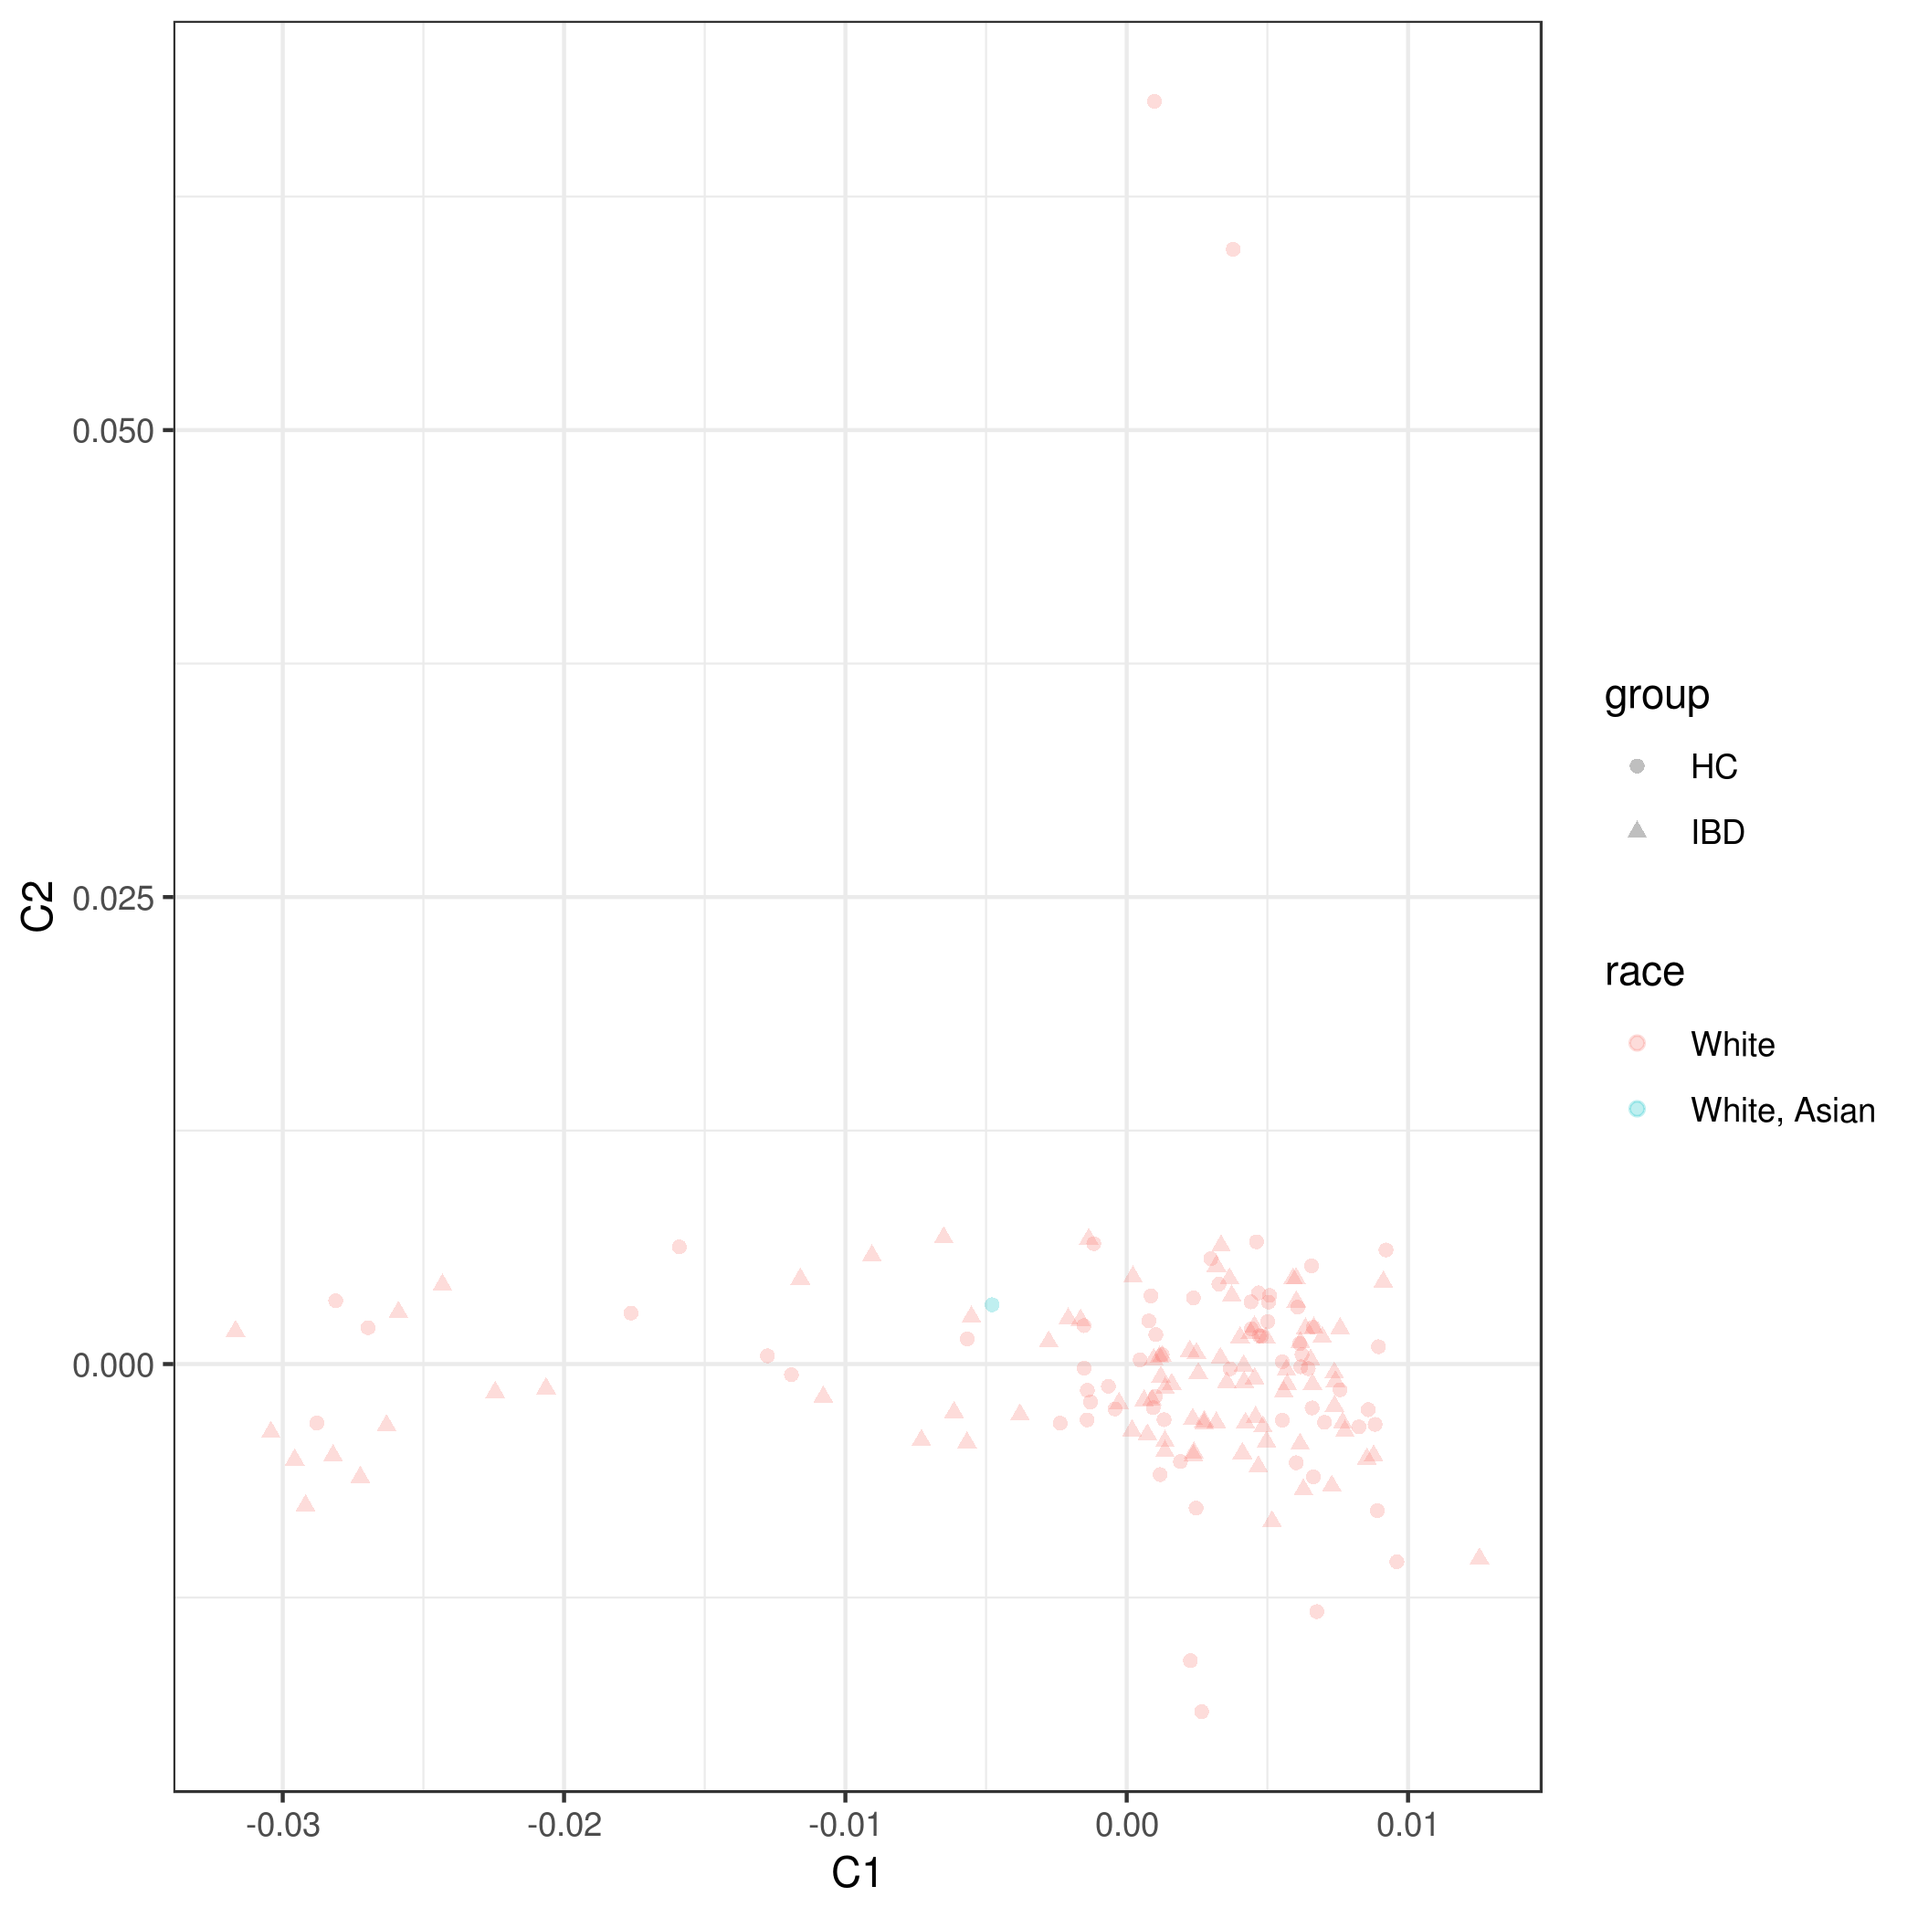
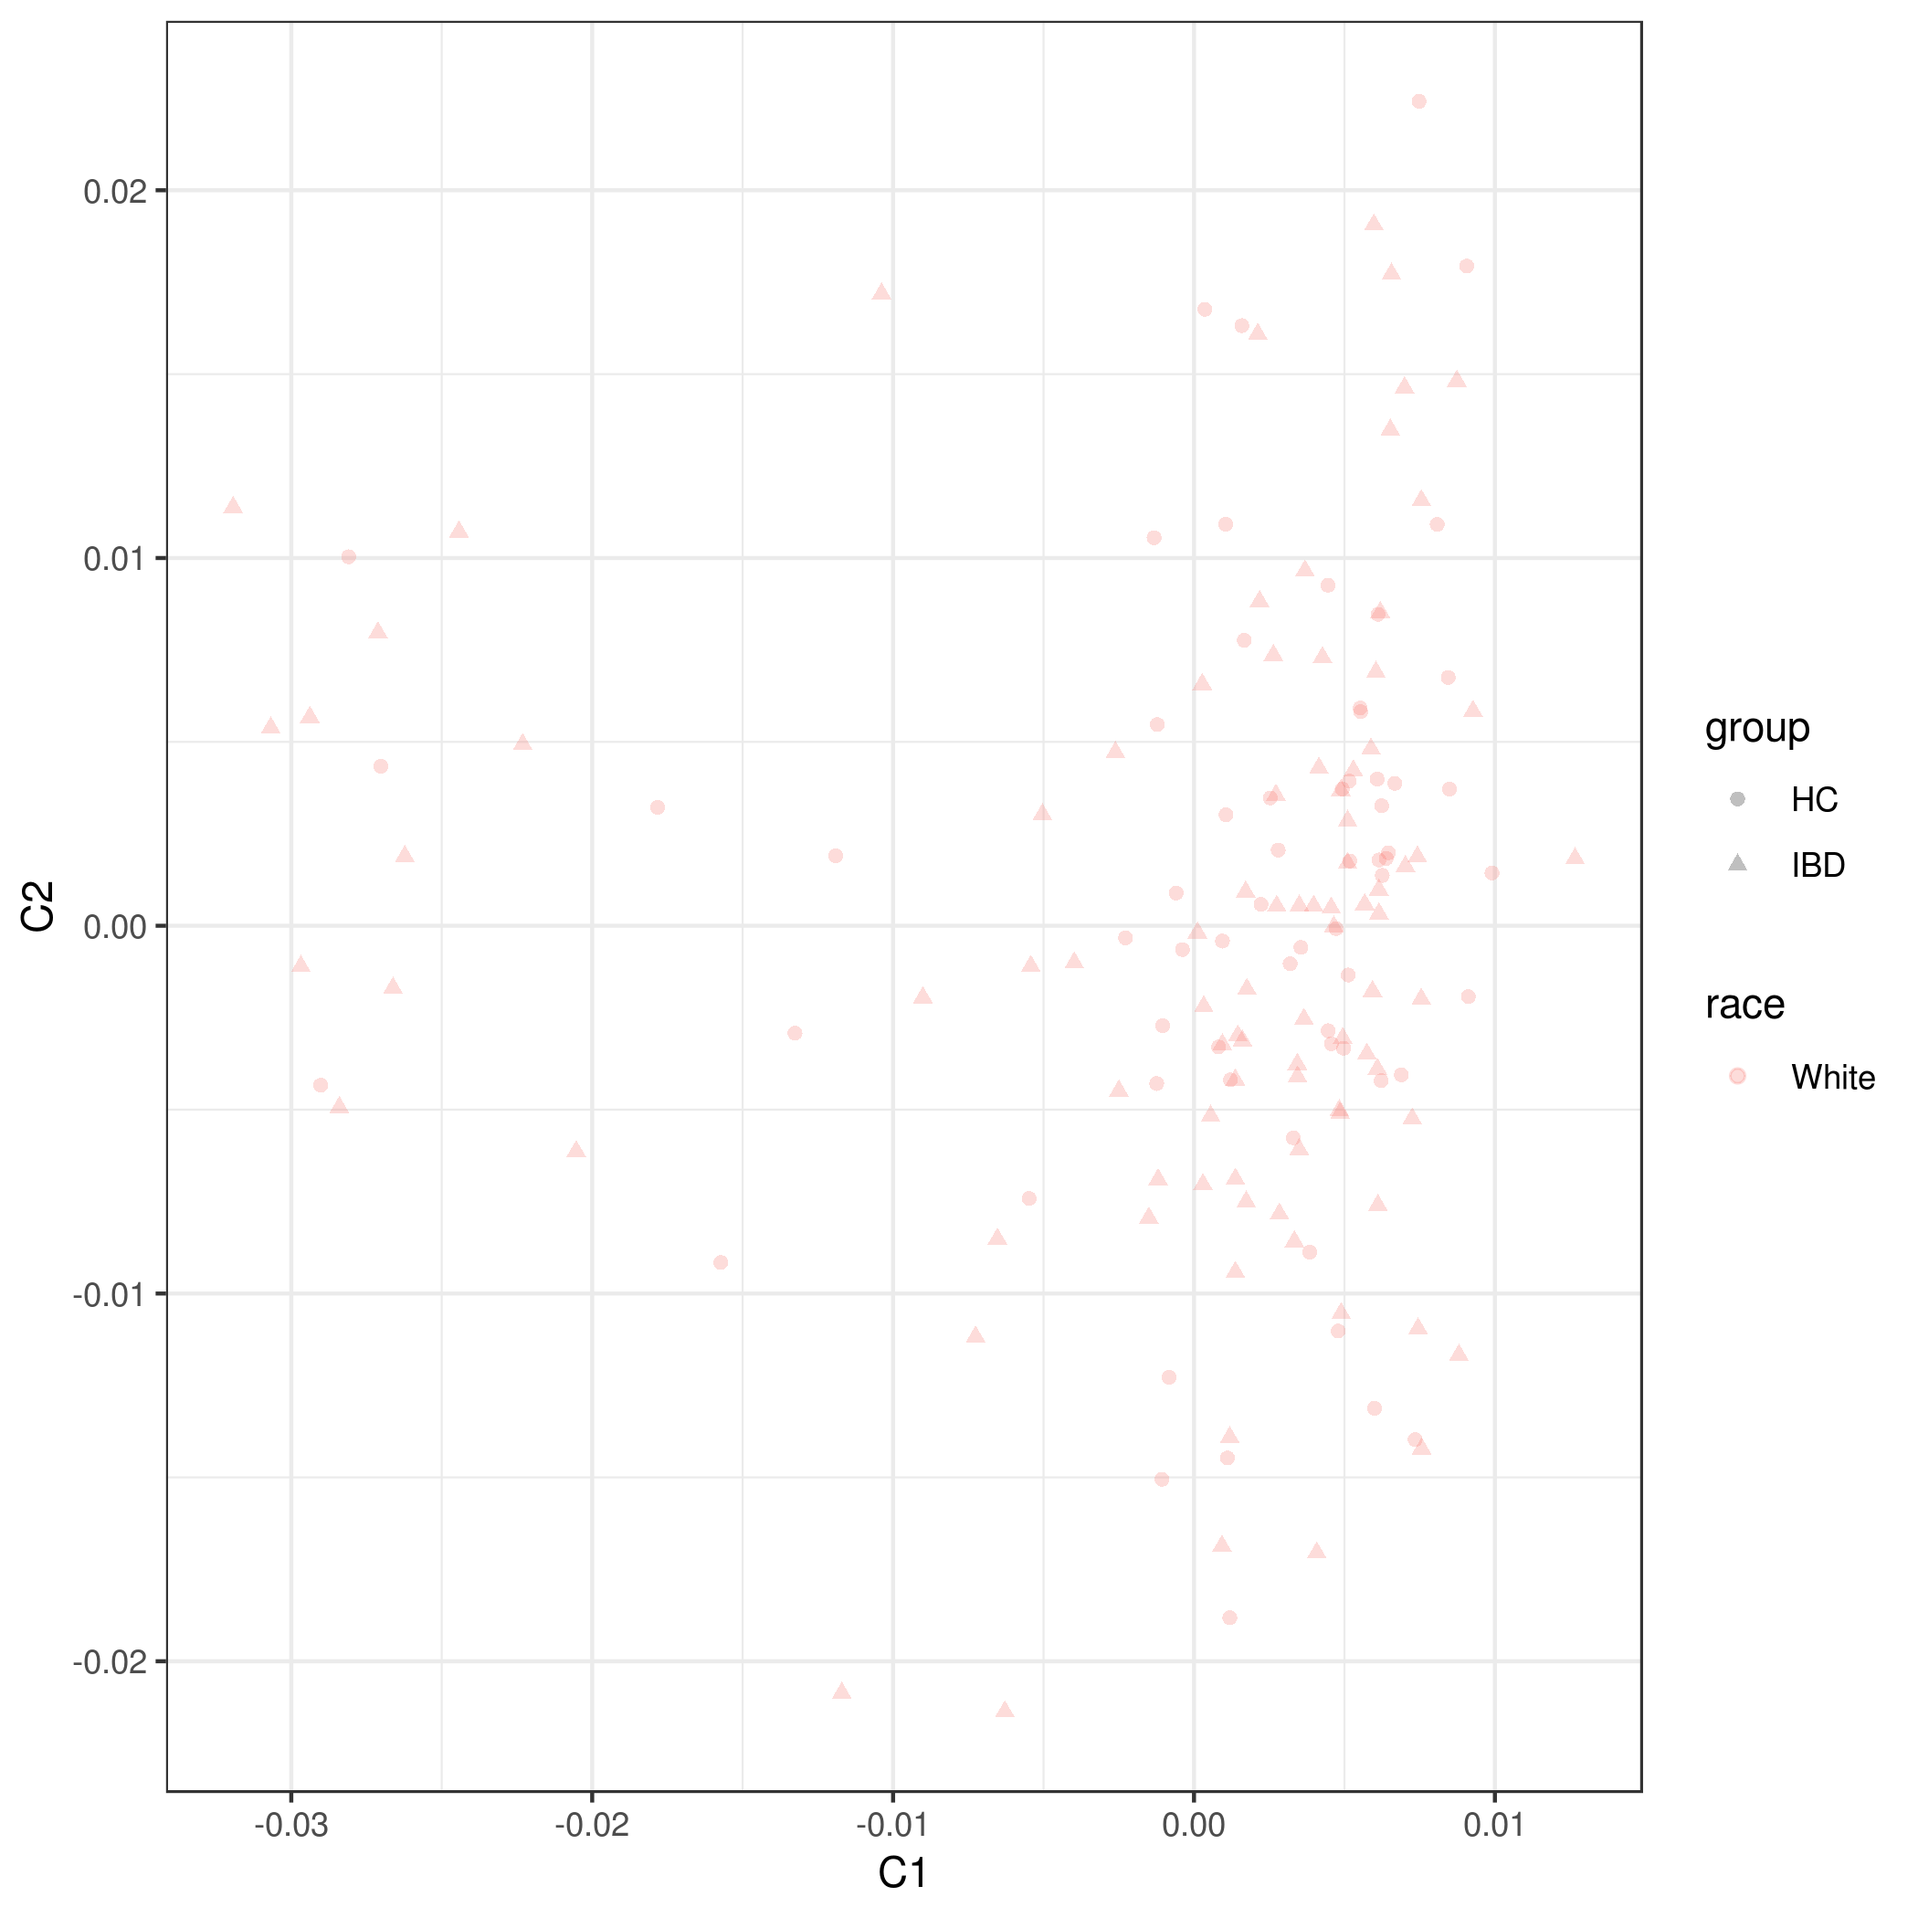
Rm 3 samples to get closer eur clustering.

diff --git a/src/rules/sf_mds.py b/src/rules/sf_mds.py
@@ -33,7 +33,7 @@ rule list_discordant_pos_hapmap_ibd:
         hp = pd.read_csv(input.hp, sep='\t', header=None, names=names_hp)
         # discord when pos matches, but allele1 and allele2 do not
         m = pd.merge(hp, ibd, on='pos', how='inner')
-        m.to_csv('xxx', index=False, sep='\t')
+        #m.to_csv('xxx', index=False, sep='\t')
         crit = m.apply(lambda row: row['allele1'] != row['allele1_hp'] or row['allele2'] != row['allele2_hp'], axis=1)
         m[crit][['id']].to_csv(output.bout, index=False, header=None)
         m[crit][['id_hp']].to_csv(output.hout, index=False, header=None)
@@ -184,6 +184,21 @@ rule color_mds_ibd:
 rule mds:
     input: DATA + 'interim/mds_dat_ibd/3groups.dat',
            o = DATA + 'interim/mds_dat/ibd_hapmap.dat'
+
+rule plot_with_hapmap_nogroup:
+    input:
+        DATA + 'interim/mds_dat/ibd_hapmap.dat'
+    output:
+        PLOTS + 'hapmap_mds_nogroup.png'
+    run:
+        R("""
+        require(ggplot2)
+        d = read.delim("{input}", header=TRUE, sep='\t')
+        p = ggplot(data=d) + geom_point(aes(x=C1, y=C2, colour=race), alpha=0.25) +
+        theme_bw() 
+        ggsave("{output}", p, units="cm", width=60)
+        """)
+
 
 rule plot_with_hapmap:
     input:

diff --git a/src/rules/Snakefile.py b/src/rules/Snakefile.py
@@ -19,6 +19,7 @@ rule before_imputation:
         expand(DATA + 'interim/eur_vcf/3groups.{chr}.vcf.gz', chr=range(1,23)),
         PLOTS + 'eur_mds.png',
         PLOTS + 'hapmap_mds.png',
+        PLOTS + 'hapmap_mds_nogroup.png',
         expand(DATA + 'interim/missing_test/3groups.{miss}', miss=('imiss', 'lmiss') ),
         DATA + 'interim/sex_check/3groups.sexcheck',
         DATA + 'interim/qc_hwe/3groups.counts',
